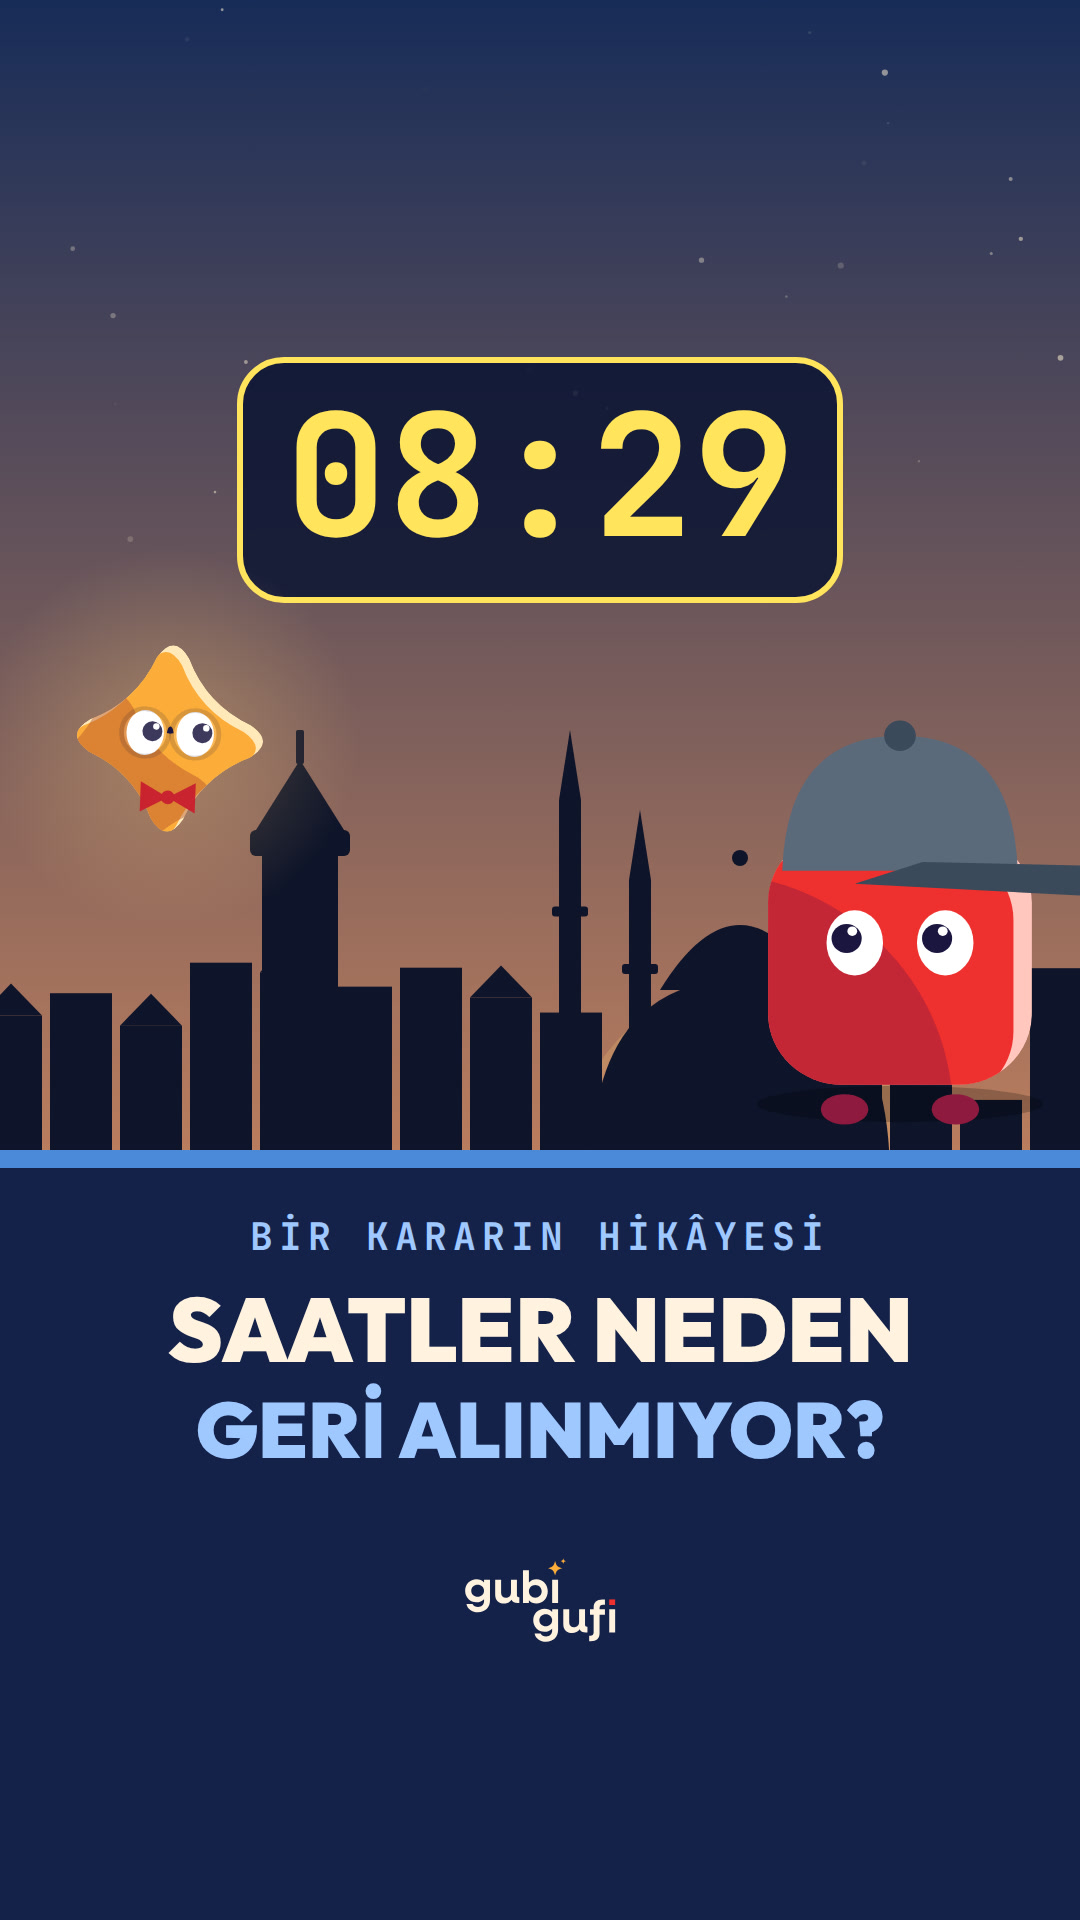
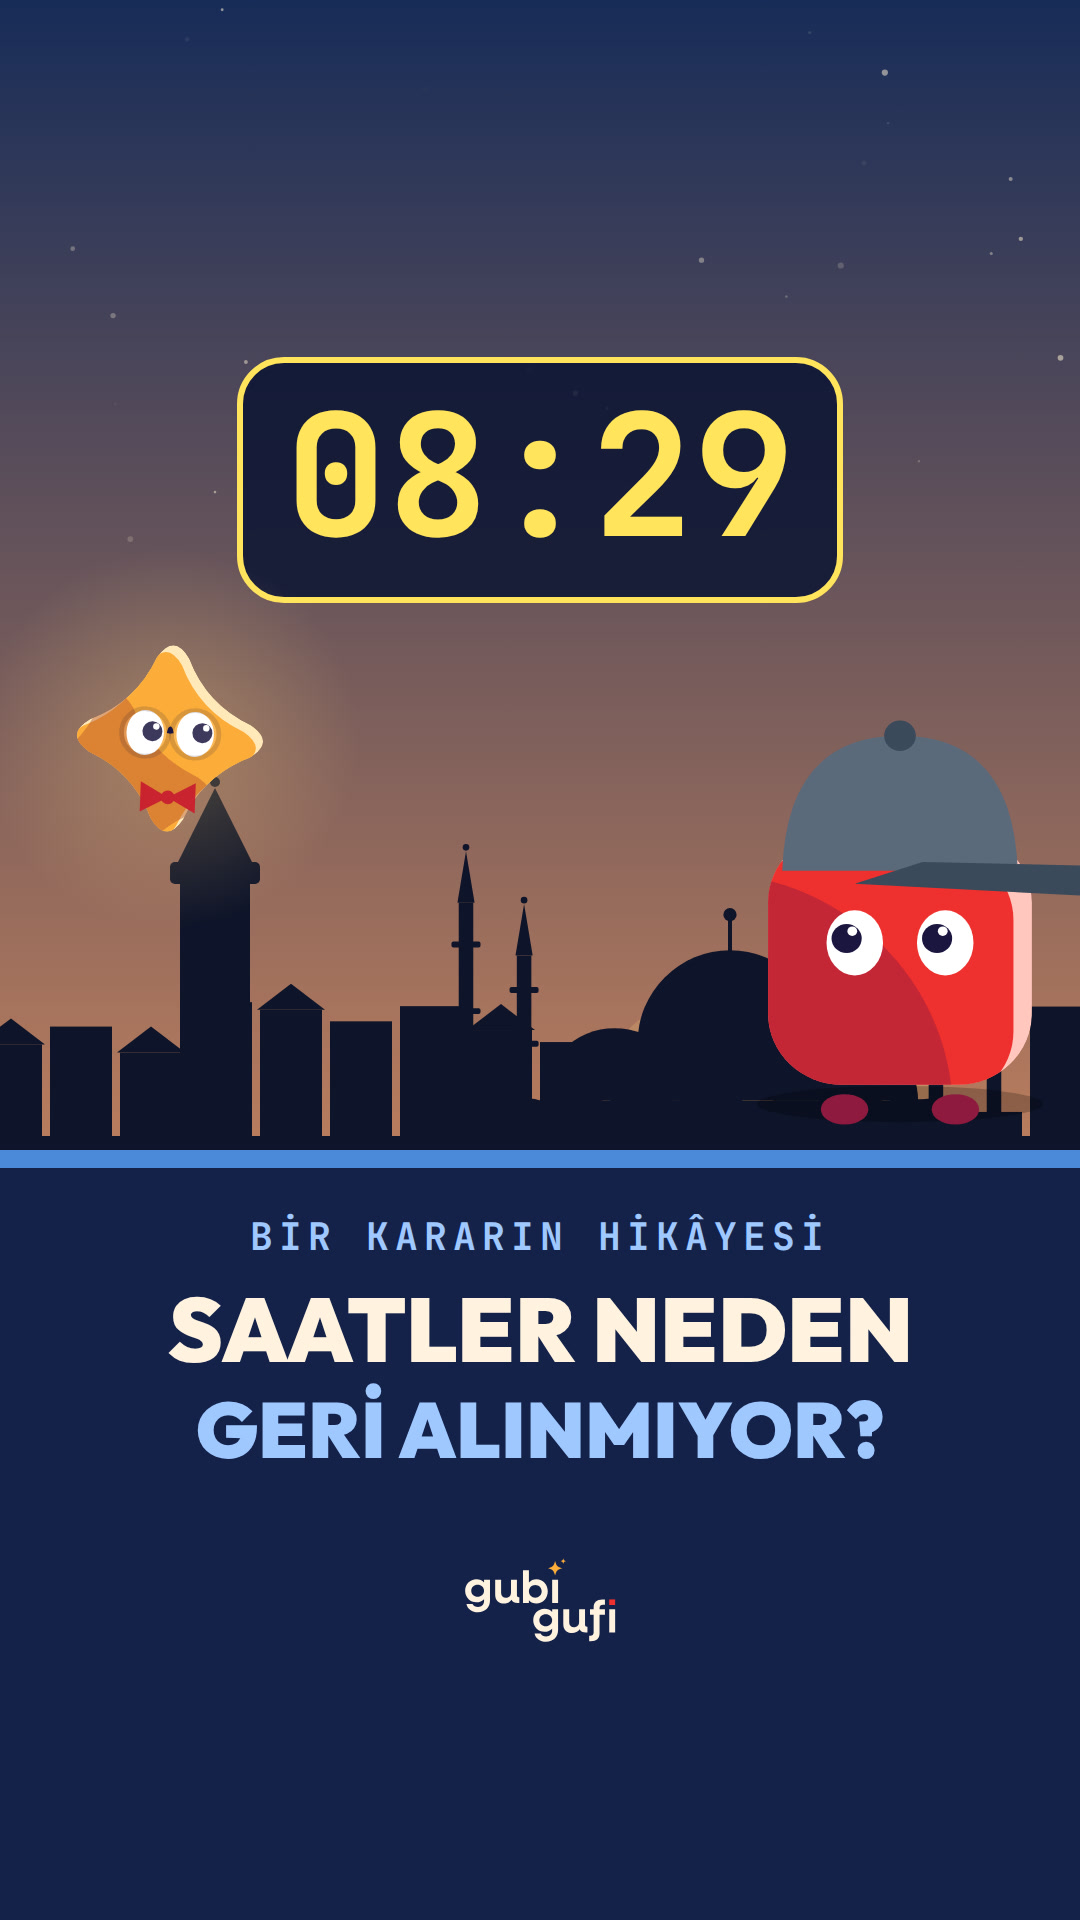
#25: İstanbul silueti yeniden çizildi (klasik cami: merkez kubbe, yarım kubbeler, şerefeli minareler; Galata), lamba konumları
Claude-Session: https://claude.ai/code/session_01XpFWe2qV8RD24ed2Fkasje

diff --git a/gubigufi/2026-10-02/25-saat-takasi/kaynak/ortak/ss.js b/gubigufi/2026-10-02/25-saat-takasi/kaynak/ortak/ss.js
@@ -9,14 +9,22 @@ const SS = (() => {
   const hx = c => [parseInt(c.slice(1, 3), 16), parseInt(c.slice(3, 5), 16), parseInt(c.slice(5, 7), 16)];
   const mix = (a, b, k) => { const A = hx(a), B = hx(b); return '#' + A.map((v, i) => Math.round(v + (B[i] - v) * k).toString(16).padStart(2, '0')).join(''); };
   const ALT = '#F2C14E', MAVI = '#4A8AD8', KOYU = '#0E1830';
-  // ---------- İstanbul silueti (Galata, cami + minareler, binalar) ----------
+  // ---------- İstanbul silueti: Galata Kulesi + klasik Osmanlı camisi (merkez kubbe, yarım kubbeler, şerefeli minareler) + binalar ----------
+  function minare(x, y0, hh, renk) { return R(x - 17, y0 - 70, 34, 70, 2, renk) + R(x - 11, y0 - hh, 22, hh - 60, 0, renk) + R(x - 22, y0 - hh * .62, 44, 9, 3, renk) + R(x - 22, y0 - hh * .86, 44, 9, 3, renk) + `<path d="M${x - 13} ${y0 - hh} L${x} ${y0 - hh - 78} L${x + 13} ${y0 - hh}Z" fill="${renk}"/><circle cx="${x}" cy="${y0 - hh - 84}" r="5" fill="${renk}"/>`; }
+  function cami(x, y0, k, renk) { let o = `<g transform="translate(${x} ${y0}) scale(${k})">`;
+    o += R(-430, -66, 860, 66, 0, renk);                                                                     // avlu duvarı
+    o += `<path d="M-300 -66 L-300 -120 L300 -120 L300 -66Z" fill="${renk}"/>`;                              // ana gövde
+    o += `<path d="M-285 -120 A110 110 0 0 1 -65 -120Z" fill="${renk}"/><path d="M65 -120 A110 110 0 0 1 285 -120Z" fill="${renk}"/>`;   // yarım kubbeler
+    o += `<path d="M-365 -66 A58 58 0 0 1 -249 -66Z" fill="${renk}"/><path d="M249 -66 A58 58 0 0 1 365 -66Z" fill="${renk}"/>`;        // küçük kubbeler
+    o += `<path d="M-140 -120 L-140 -208 A140 140 0 0 1 140 -208 L140 -120Z" fill="${renk}"/>`;               // merkez tambur + kubbe
+    o += `<path d="M0 -348 L0 -394" stroke="${renk}" stroke-width="6" stroke-linecap="round"/><circle cx="0" cy="-402" r="10" fill="${renk}"/>`;   // alem (kubbeye bağlı)
+    o += minare(-400, 0, 420, renk) + minare(400, 0, 420, renk) + minare(-312, 0, 340, renk) + minare(312, 0, 340, renk);
+    return o + '</g>'; }
   function siluet(renk, y0) { let o = '';
-    for (let b = 0; b < 16; b++) { const bx = b * 70 - 20, bh = 70 + h(b + 3) * 150; o += R(bx, y0 - bh, 62, bh, 0, renk); if (h(b + 11) > .6) o += `<path d="M${bx} ${y0 - bh} L${bx + 31} ${y0 - bh - 32} L${bx + 62} ${y0 - bh}Z" fill="${renk}"/>`; }
+    for (let b = 0; b < 16; b++) { const bx = b * 70 - 20, bh = 60 + h(b + 3) * 120; o += R(bx, y0 - bh, 62, bh, 0, renk); if (h(b + 11) > .6) o += `<path d="M${bx - 3} ${y0 - bh} L${bx + 31} ${y0 - bh - 26} L${bx + 65} ${y0 - bh}Z" fill="${renk}"/>`; }
     // Galata Kulesi
-    o += R(262, y0 - 330, 76, 330, 0, renk) + R(250, y0 - 350, 100, 26, 6, renk) + `<path d="M256 ${y0 - 350} L300 ${y0 - 420} L344 ${y0 - 350}Z" fill="${renk}"/>` + R(296, y0 - 450, 8, 34, 2, renk);
-    // cami: kubbe + 4 minare
-    o += `<path d="M590 ${y0} Q590 ${y0 - 200} 740 ${y0 - 200} Q890 ${y0 - 200} 890 ${y0}Z" fill="${renk}"/><path d="M660 ${y0 - 190} Q740 ${y0 - 320} 820 ${y0 - 190}Z" fill="${renk}"/><circle cx="740" cy="${y0 - 322}" r="8" fill="${renk}"/>`;
-    [570, 910, 640, 840].forEach((x, i) => { const hh = i < 2 ? 380 : 300; o += R(x - 11, y0 - hh, 22, hh, 0, renk) + R(x - 18, y0 - hh * .72, 36, 10, 3, renk) + `<path d="M${x - 11} ${y0 - hh} L${x} ${y0 - hh - 70} L${x + 11} ${y0 - hh}Z" fill="${renk}"/>`; });
+    o += R(180, y0 - 300, 70, 300, 0, renk) + R(170, y0 - 318, 90, 22, 5, renk) + R(176, y0 - 304, 78, 8, 3, renk) + `<path d="M178 ${y0 - 318} L215 ${y0 - 392} L252 ${y0 - 318}Z" fill="${renk}"/><circle cx="215" cy="${y0 - 398}" r="5" fill="${renk}"/>`;
+    o += cami(730, y0, .66, renk) + R(0, y0 - 44, 1080, 44, 0, renk);
     return o; }
   // p: 0 şafak (lacivert→turuncu) … 1 gün (mavi); gunes: [x, y] ; sokak lambaları p<.6 yanar
   function istanbul(t, p, gunes, { lamba = true } = {}) {
@@ -27,7 +35,7 @@ const SS = (() => {
     o += siluet(sil, 1180) + R(0, 1180, 1080, 190, 0, su);
     for (let i = 0; i < 10; i++) o += R(60 + h(i) * 940, 1200 + (i % 4) * 40, 90 + h(i + 5) * 140, 5, 3, '#FFFFFF', .1 + .1 * Math.sin(t * 2 + i));
     o += R(0, 1370, 1080, 550, 0, mix('#2A2A3A', '#8A8A94', p)) + R(0, 1360, 1080, 20, 0, mix('#3A3A4A', '#B0B0B8', p));
-    if (lamba) [140, 540, 940].forEach(x => { const on = p < .62 ? 1 : .15; o += R(x - 5, 1020, 10, 350, 3, '#2A2A34') + `<circle cx="${x}" cy="1010" r="22" fill="#FFD98A" opacity="${on}"/><circle cx="${x}" cy="1010" r="110" fill="#FFD98A" opacity="${.15 * on}"/>`; });
+    if (lamba) [70, 370, 1010].forEach(x => { const on = p < .62 ? 1 : .15; o += R(x - 5, 1020, 10, 350, 3, '#2A2A34') + `<circle cx="${x}" cy="1010" r="22" fill="#FFD98A" opacity="${on}"/><circle cx="${x}" cy="1010" r="58" fill="#FFD98A" opacity="${.12 * on}"/>`; });
     return o; }
   // ---------- saat kadranı ----------
   function kadran(x, y, r, hh, mm, { yuz = '#FFFDF6', cerceve = '#1B2240', akrep = '#1B2240', yelkovan = '#E8323C', ad = '' } = {}) {
